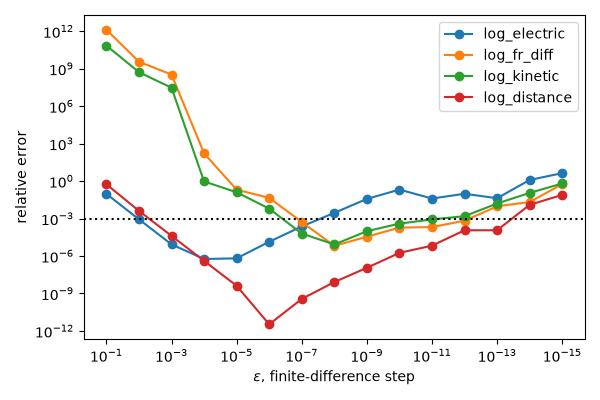
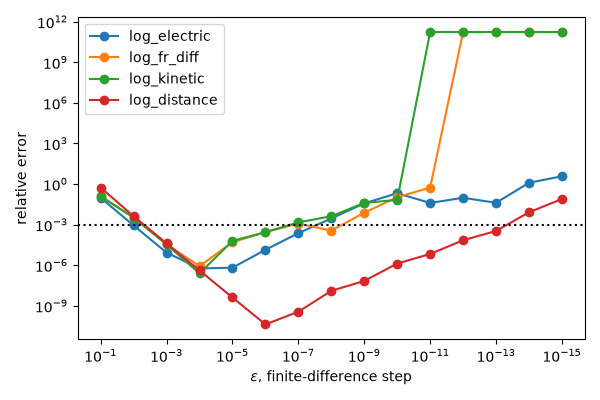
added width guards to physics.py to stabilize optimization and require a single learning rate. re-run gradient test with these changes.

diff --git a/src/physics.py b/src/physics.py
@@ -42,6 +42,14 @@ amplitudes, frequency difference, electron kinetic energy and final
 propagation distance) are trainable parameters, so that temporal compression 
 of the electron pulse in a single optical period 2*pi*c/|w1-w2| can be 
 optimized by gradient descent through the full evolution.  
+
+The four inputs are not optimized directly. Each is carried as a dimensionless
+log-scale with a frozen scale and a frozen width, chosen so that one unit of 
+change produces a comparable change in the loss for all parameters. This 
+matters because the kinetic energy and the frequency difference enter through
+the phase-matching resonance condition some four orders of magnitude smaller
+than the scales on which the field amplitude and propagation distance vary, 
+without the rescaling no single learning rate would work for all four.
 ===============================================================================
 """
 import torch
@@ -265,8 +273,10 @@ class ElectronModulator(nn.Module):
         self.frequency1 = self.cfg.frequency1*eV_au
         # -- trainable parameters  --------------------------------------------
         # the parameters in atomic units are very different in magnitude, so 
-        # we use the inputs as a frozen scale and optimize a quantity in log 
-        # scale, that remians O(1) with reasonable learning rates.
+        # we use the inputs as a frozen scale and optimize in log scale.  
+        # That fixes the magnitude but not the curvature of the loss function
+        # (see the width buffers below), which rescale each latent by the range
+        # over which the loss actually varies.
         # we are missing our fourth trainable parameter: the free-propagation 
         # distance, which we introduce later after defining a few quantities
         self.register_buffer('electric_scale'
@@ -275,6 +285,9 @@ class ElectronModulator(nn.Module):
                              ,torch.as_tensor(abs(dw0),dtype=torch.float64))
         self.register_buffer('kinetic_scale'
                              ,torch.as_tensor(ke0,dtype=torch.float64))
+        for name in ('electric', 'fr_diff', 'kinetic', 'distance'):
+            self.register_buffer(f'{name}_width',
+                                 torch.ones((),dtype=torch.float64))
         
         self.log_electric = nn.Parameter(torch.zeros((),dtype=torch.float64))
         self.log_fr_diff  = nn.Parameter(torch.zeros((),dtype=torch.float64))
@@ -287,8 +300,22 @@ class ElectronModulator(nn.Module):
             rayleigh0 = self._init_rayleigh()
             beta0     = self._init_beta(self.electric,self.kinetic)
             intdist0  = rayleigh0 * (beta0/self.cfg.beta_target)**0.5
+            # -- conditioning widths (FROZEN) ---------------------------------
+            # kinetic and fr_diff enter through the phase-matching condition,
+            # v/c = (w1-w2)/(w1+w2), which holds only to within the inverse of
+            # the beat phase accumulated over the interaction region. Their 
+            # log-scale values are therefore rescaled so that one unit of change
+            # in the log scale corresponds to one resonance width, allowing us to
+            # use a single learning rate for all four parameters.
+            v,gm     = self.velocity, self.gamma
+            beta_rel = self.velocity/c_au
+            leff = torch.minimum(torch.as_tensor(pi*rayleigh0),intdist0)
+            dlnv = self.kinetic/(gm**3 * v**2)
+            pm_width = pi*self.velocity/(self.fr_diff.abs()*leff)
+            self.kinetic_width.fill_((pm_width/dlnv).item())
+            self.fr_diff_width.fill_((pm_width/(1+beta_rel)).item())
         self._beta0_init = float(beta0)
-        self.lmax     = max(5,math.ceil(3*beta0))
+        self.lmax     = max(5,math.ceil(4*beta0))
         self.L        = 2*self.lmax + 1
         self.interaction_distance = intdist0
         # taking a linear sampling of the interaction region takes too many 
@@ -354,9 +381,12 @@ class ElectronModulator(nn.Module):
         # NOTE: the sign is forced negative here wo that w2 < w1 always.
         #       this is a physical requirement, if it is not met the phase 
         #       matching condition v/c = (w1-w2)/(w1+w2) cannot be fulfilled.
-        return -self.fr_diff_scale*torch.exp(self.log_fr_diff)
+        return (-self.fr_diff_scale
+                *torch.exp(self.fr_diff_width*self.log_fr_diff))
     @property
-    def kinetic(self): return self.kinetic_scale*torch.exp(self.log_kinetic)
+    def kinetic(self): 
+        return (self.kinetic_scale
+                *torch.exp(self.kinetic_width*self.log_kinetic))
     @property
     def distance(self): return self.distance_scale*torch.exp(self.log_distance)
     # - live derived quantities (smoot functions of params, admit gradient) ---

diff --git a/src/gradient_test.py b/src/gradient_test.py
@@ -3,8 +3,9 @@ Finite-difference validation of autograd gradients for ElectronModulator
 
 Here we compare the gradient obtained by loss.backward() vs a finite-difference 
 scheme obtained by slightly varying the trainable parameters. We want to check 
-that everything works for the log-scale trainable parameters, which were 
-introduced while building the optimizer. 
+that everything works for the dimensionless los-scale trainable parameters, which 
+carry both a frozen scale (fixing the magnitude) and a frozen width (fixing the 
+curvature), see physics.py.
 
 NOTE: consider when choosing eps that the error is not monotonic in this 
       quantity, and picking eps badly makes a correct gradient look broken. 
@@ -15,10 +16,11 @@ NOTE: consider when choosing eps that the error is not monotonic in this
          numbers (grows as 1/eps)
       The sum of these two errors should give a U-shaped curve in log-log, with
       straight line slopes of +2 and -1 on either side of the minimum. 
-      The minima are, in general, not the same for each trainable parameter, 
-      depending significantly on how these parameters enter into the forward 
-      pass. Because of this, we add the option to input a dictionary of eps, 
-      allowing to have different values for the different parameters.
+      The position of the minima depend on how strongly the loss cuves with respect
+      to each parameter. The width normalization in physics.py removes most of the 
+      spread that is present in a naive log parametrization, so a single eps should 
+      be good enough for all parameters. The dictionary option is kept as a fallback
+      and for diagnostic purposes.
 """
 import torch
 from metric import degree_of_coherence
